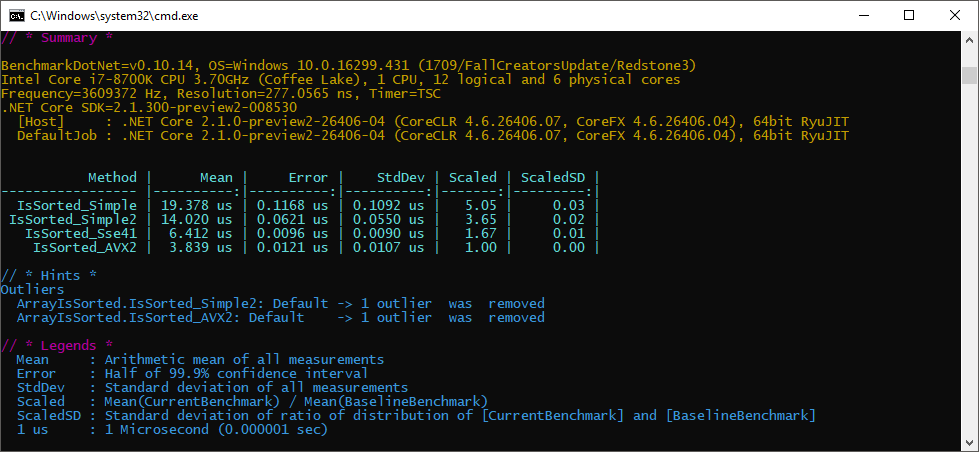
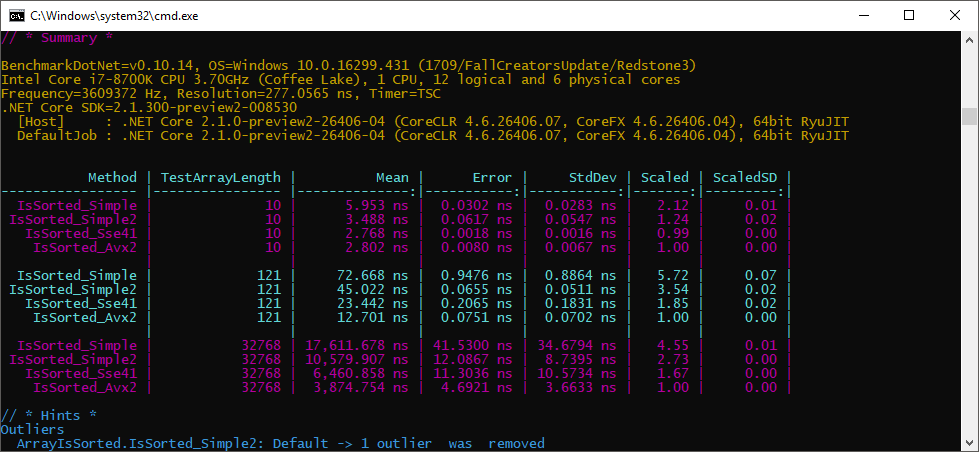
improve ArrayEqual

diff --git a/Intrinsics/ArrayIntrinsics/SequenceEqual.cs b/Intrinsics/ArrayIntrinsics/SequenceEqual.cs
@@ -1,23 +1,25 @@
-using System.Linq;
-using System.Runtime.CompilerServices;
+using System.Runtime.CompilerServices;
 using System.Runtime.Intrinsics.X86;
 
 namespace IntrinsicsPlayground
 {
-    public static partial class ArrayIntrinsics
+    public static unsafe partial class ArrayIntrinsics
     {
-        public static unsafe bool SequenceEqual_Avx(double[] array1, double[] array2)
+        public static bool SequenceEqual_Avx(float[] array1, float[] array2)
         {
             if (array1.Length != array2.Length)
                 return false;
 
-            if (array1.Length < 8)
-                return SequenceEqual_Soft(array1, array2, 0);
+            if (array1.Length == 0)
+                return true;//SequenceEqual_Soft(array1, array2, 0);
 
             int i = 0;
-            fixed (double* ptr1 = &array1[0])
-            fixed (double* ptr2 = &array2[0])
+            fixed (float* ptr1 = &array1[0])
+            fixed (float* ptr2 = &array2[0])
             {
+                if (array1.Length < 8)
+                    return SequenceEqual_Soft(ptr1, ptr2, 0, array1.Length);
+
                 for (; i <= array1.Length - 8; i += 8) //16 for AVX512
                 {
                     var vec1 = Avx.LoadVector256(ptr1 + i);
@@ -27,16 +29,19 @@ namespace IntrinsicsPlayground
                     if (!Avx.TestZ(ce, ce))
                         return false;
                 }
-            }
 
-            return SequenceEqual_Soft(array1, array2, i);
+                // TODO: shift the last `ce` vector to ignore garbage values
+                // so we won't have to call SequenceEqual_Soft (in case if array1.Length % 8 != 0)
+
+                return SequenceEqual_Soft(ptr1, ptr2, i, array1.Length);
+            }
         }
 
         [MethodImpl(MethodImplOptions.AggressiveInlining)]
-        private static bool SequenceEqual_Soft(double[] array1, double[] array2, int offset)
+        private static bool SequenceEqual_Soft(float* array1, float* array2, int offset, int count)
         {
-            for (; offset < array1.Length; offset++)
-                if (array1[offset] != array2[offset])
+            for (; offset < count; offset++)
+                if (*(array1 + offset) != *(array2 + offset))
                     return false;
             return true;
         }

diff --git a/Intrinsics/ArrayIntrinsics/Reverse.cs b/Intrinsics/ArrayIntrinsics/Reverse.cs
@@ -11,22 +11,22 @@ namespace IntrinsicsPlayground
                 return;
 
             int i = 0, len = array.Length;
-            const int batchSize = 4; // 8/16 for AVX2/AVX512
+            const int vecSize = 4; // 8/16 for AVX2/AVX512
             // but _mm256_permute4x64_pd is not exposed in the nuget package yet
 
-            if (len < batchSize * 2)
+            if (len < vecSize * 2)
             {
                 Array.Reverse(array, 0, array.Length);
                 return;
             }
 
-            var chunks = len / batchSize / 2;
+            var chunks = len / vecSize / 2;
             fixed (int* ptr = &array[0])
             {
-                for (; i < chunks * batchSize; i += batchSize)
+                for (; i < chunks * vecSize; i += vecSize)
                 {
                     var leftPtr = ptr + i;
-                    var rightPtr = ptr + len - batchSize - i;
+                    var rightPtr = ptr + len - vecSize - i;
 
                     // load first 4 values and the last ones
                     // shuffle vectors using _mm_shuffle_epi32 
@@ -39,8 +39,8 @@ namespace IntrinsicsPlayground
                 }
             }
 
-            if (chunks * batchSize != len) //in case if there elements in the middle left unreversed
-                Array.Reverse(array, chunks * batchSize, len - chunks * batchSize * 2);
+            if (chunks * vecSize != len) //in case if there elements in the middle left unreversed
+                Array.Reverse(array, chunks * vecSize, len - chunks * vecSize * 2);
         }
     }
 }

diff --git a/Tests/ArrayIntrinsicsTests.cs b/Tests/ArrayIntrinsicsTests.cs
@@ -11,7 +11,7 @@ namespace IntrinsicsPlayground.Tests
         {
             for (int i = 0; i < 1024; i++)
             {
-                var arrayOfFloats1 = Enumerable.Range(0, i).Select(n => n / 2.0).ToArray();
+                var arrayOfFloats1 = Enumerable.Range(0, i).Select(n => n / 2.0f).ToArray();
                 var arrayOfFloats2 = arrayOfFloats1.ToArray();
 
                 var expected = Enumerable.SequenceEqual(arrayOfFloats1, arrayOfFloats2);
@@ -19,9 +19,12 @@ namespace IntrinsicsPlayground.Tests
                 Assert.Equal(expected, actual);
 
                 // so now the arrays are not equal
-                arrayOfFloats2[42] = -1.0;
-                actual = ArrayIntrinsics.SequenceEqual_Avx(arrayOfFloats1, arrayOfFloats2);
-                Assert.False(actual);
+                if (arrayOfFloats2.Length > 42)
+                {
+                    arrayOfFloats2[42] = -1.0f;
+                    actual = ArrayIntrinsics.SequenceEqual_Avx(arrayOfFloats1, arrayOfFloats2);
+                    Assert.False(actual);
+                }
             }
         }
 

diff --git a/Benchmarks/ArrayEqual.cs b/Benchmarks/ArrayEqual.cs
@@ -8,22 +8,22 @@ namespace IntrinsicsPlayground
         [Benchmark]
         public bool ArrayEqual_LINQ_SequenceEqual()
         {
-            return Enumerable.SequenceEqual(ArrayOfDoubles, ArrayOfDoubles2);
+            return Enumerable.SequenceEqual(ArrayOfFloats, ArrayOfFloats2);
         }
 
         [Benchmark]
         public bool ArrayEqual_Simple()
         {
-            return ArrayEqual_Simple(ArrayOfDoubles, ArrayOfDoubles2);
+            return ArrayEqual_Simple(ArrayOfFloats, ArrayOfFloats2);
         }
 
         [Benchmark(Baseline = true)]
         public bool ArrayEqual_AVX2()
         {
-            return ArrayIntrinsics.SequenceEqual_Avx(ArrayOfDoubles, ArrayOfDoubles2);
+            return ArrayIntrinsics.SequenceEqual_Avx(ArrayOfFloats, ArrayOfFloats2);
         }
 
-        public static bool ArrayEqual_Simple(double[] array1, double[] array2)
+        public static bool ArrayEqual_Simple(float[] array1, float[] array2)
         {
             if (array1.Length != array2.Length)
                 return false;

diff --git a/Benchmarks/BenchmarkBase.cs b/Benchmarks/BenchmarkBase.cs
@@ -13,9 +13,9 @@ namespace IntrinsicsPlayground
 
         public float[] ArrayOfFloats { get; set; }
 
-        public double[] ArrayOfDoubles { get; set; }
+        public float[] ArrayOfFloats2 { get; set; }
 
-        public double[] ArrayOfDoubles2 { get; set; }
+        public double[] ArrayOfDoubles { get; set; }
 
 
         [GlobalSetup]
@@ -25,8 +25,8 @@ namespace IntrinsicsPlayground
             ArrayOfDoubles = Enumerable.Range(0, TestArrayLength).Select(i => (double)i).ToArray();
             ArrayOfFloats = Enumerable.Range(0, TestArrayLength).Select(i => (float)i).ToArray();
 
-            ArrayOfDoubles2 = ArrayOfDoubles.ToArray();
-            ArrayOfDoubles2[ArrayOfDoubles.Length - 1] = -1; // so it's _almost_ equal to ArrayOfDoubles
+            ArrayOfFloats2 = ArrayOfFloats.ToArray();
+            ArrayOfFloats2[ArrayOfFloats.Length - 1] = -1; // so it's _almost_ equal to ArrayOfDoubles
         }
 
         [Params(10, 121, 32 * 1024)]

diff --git a/Program.cs b/Program.cs
@@ -14,8 +14,8 @@ namespace IntrinsicsPlayground
             //BenchmarkRunner.Run<ArrayEqual>();
             //BenchmarkRunner.Run<ArrayIsSorted>();
             //BenchmarkRunner.Run<ArrayMax>();
-            //BenchmarkRunner.Run<ArrayReverse>();
-            BenchmarkRunner.Run<ArraySum>();
+            BenchmarkRunner.Run<ArrayReverse>();
+            //BenchmarkRunner.Run<ArraySum>();
         }
     }
 }
